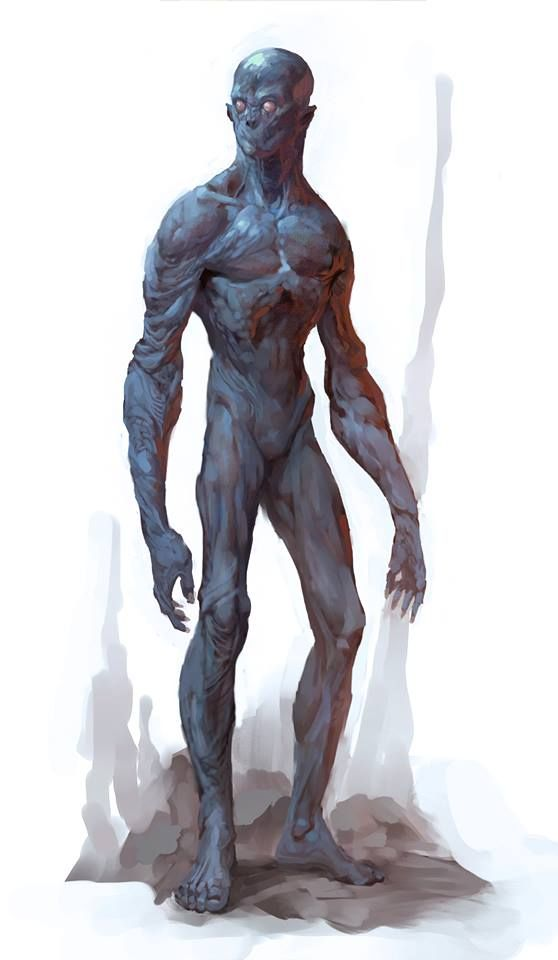
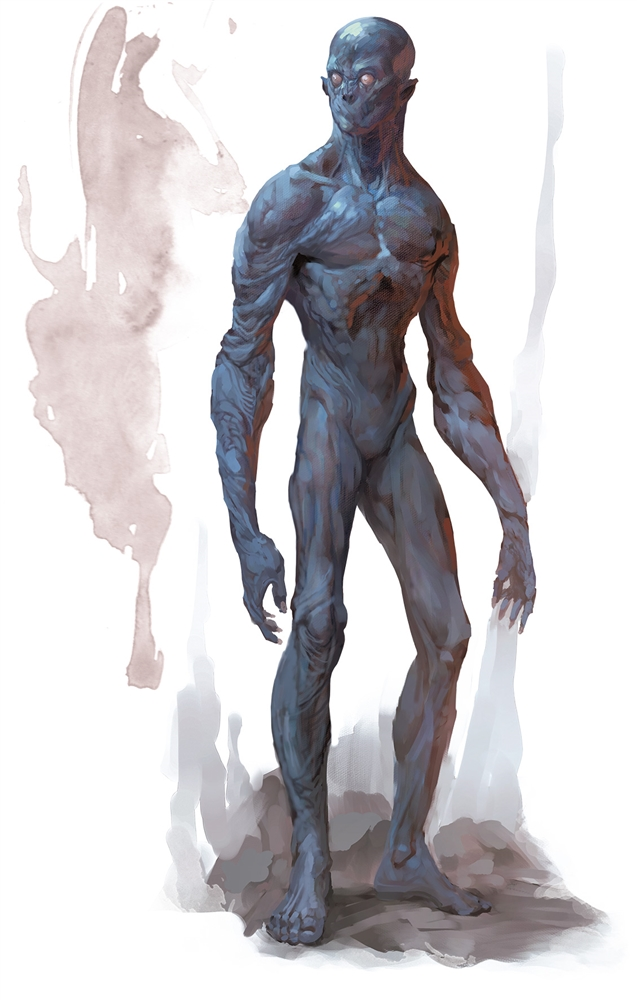
fixed opacity

diff --git a/assets/javascript/game.js b/assets/javascript/game.js
@@ -24,6 +24,7 @@ var health = 10;
 var guessesRemaining = 10;
 var lettersUsed = [];
 var answerArray = [];
+var currentOpacity = 0;
 
 
 //set the game function
@@ -39,6 +40,8 @@ function game() {
     //create __ for each letter in array
     for (var i = 0; i < guessWord.length; i++) {
         answerArray.push("_");
+
+
     }
     //display the word to be guessed in html
     document.getElementById("wordSpan").innerHTML = answerArray.join("  ");
@@ -52,6 +55,7 @@ function reset () {
     monsterImage.style.opacity = 0;
     lettersUsed = [];
     answerArray = [];
+    currentOpacity = 0;
     game ();
 }
 
@@ -74,10 +78,10 @@ function checkGuess (letter) {
     }
     //if guess is not in the word
     else {
+        currentOpacity += .03
+        monsterImage.style.opacity = currentOpacity;
         lettersUsed.push(letter);
         guessesRemaining--;
-//ONLY WORKS ON THE FIRST MISS
-        monsterImage.style.opacity =+ .05;
     }
 }
 
@@ -87,11 +91,7 @@ function gameWin () {
     //if they won
     if (guessWord.toString() === answerArray.toString ()) {
         level++;
-        
-//DOESN"T WORK//monsterImage.style.opacity = 1;
-
-//DOESN"T WORK// alert("You defeated the "+word+"! \n You gained 1 experience level! \n Press ENTER to keep playing.");
-
+        // alert("You defeated the "+word+"! \n You gained 1 experience level! \n Press ENTER to keep playing.");
         reset();
         document.getElementById("expLevel").innerHTML = +level;
     //if they lost but have more than 1 hit point remaining

diff --git a/assets/css/style.css b/assets/css/style.css
@@ -57,10 +57,6 @@ hr {
     line-height: 2;
 }
 
-.monstercage {
-    background: #fff;
-}
-
 #monsterImage {
     display: block;
     margin: auto;
